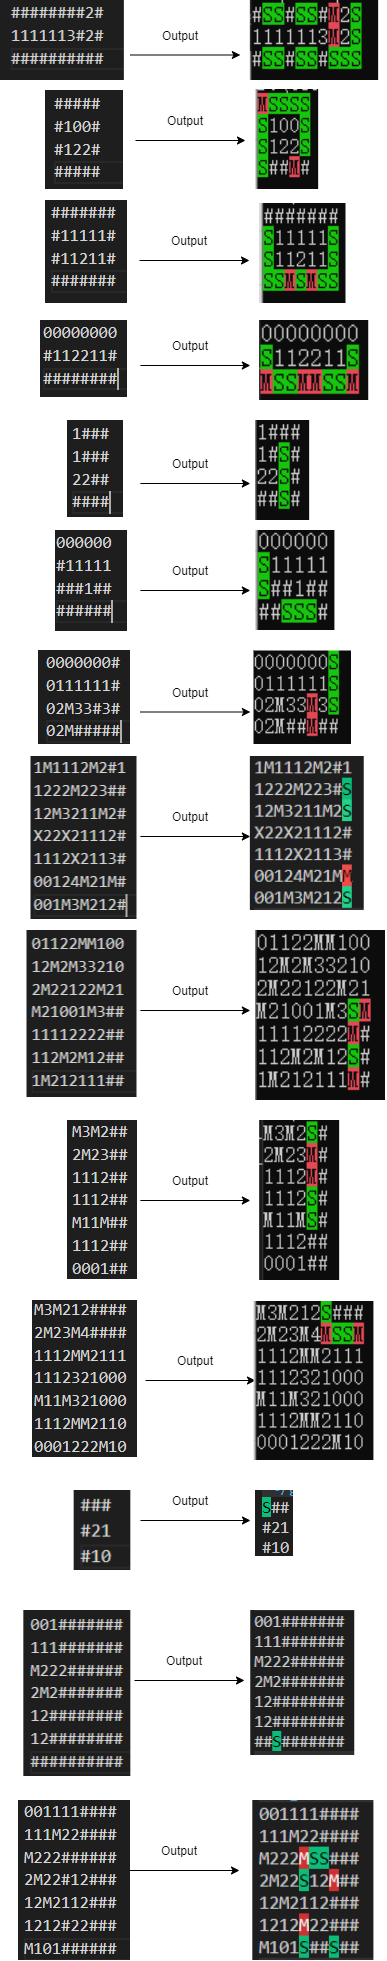
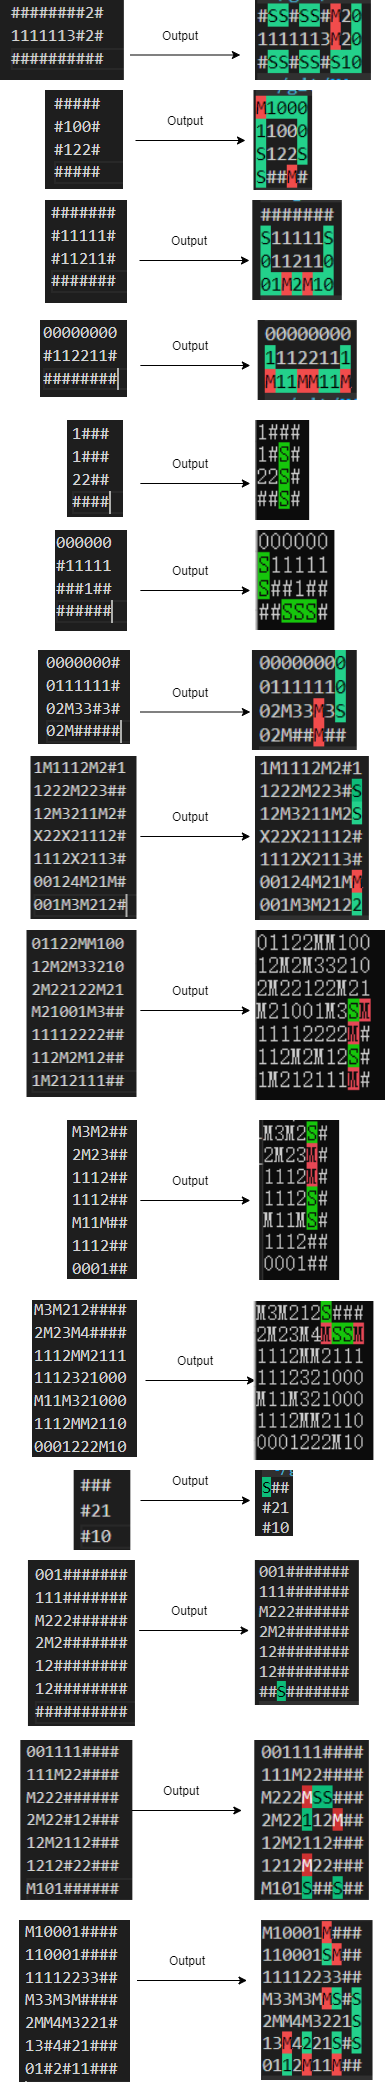
增加输出部分安全方格周围的雷数

diff --git a/hinter.cpp b/hinter.cpp
@@ -145,8 +145,8 @@ void print_no_reset(const string& s, const int textcolor, const int backgroundco
 #define S_MARKED    ('M')
 #define S_MINE      ('X')
 #define S_SAFE      ('S') // 非输入字符
-#define COUNT(cnt)  ('0' + cnt)
-#define GET_COUNT(ch) (ch - '0')
+#define CHAR_COUNT(cnt)  ('0' + cnt)
+#define INT_COUNT(ch) (ch - '0')
 #define IN_DANGER(ch) (ch == S_MARKED || ch == S_MINE) // 雷区 
 #define VALID_CH(ch) (isdigit(ch) || ch == S_UNCLICKED || IN_DANGER(ch))
 
@@ -197,6 +197,7 @@ static void UpdateStateAround(vector<string> &board, int x, int y, char old_stat
 // 得到格子四周的格子信息(雷数、未开数、安全数)
 static void GetGridInfo(vector<string> &board, int x, int y, int &dangers, int &unknowns) {
     int nx, ny;    
+    dangers = unknowns = 0;
     for (int k = 0; k < dSize; ++k) {
         nx = x + dx[k];
         ny = y + dy[k];
@@ -282,7 +283,7 @@ static bool SubtractionFormula(vector<string> &board, pii p1, pii p2, bool &fini
         // 右方的空闲格子需要提供 delta 个雷
         if (ru.size() < delta) {
             cout << "warning: invalid board input, line " << __LINE__ << endl;
-            cout << "context -> (x = " << p1.first << ", y = " << p2.second << ") , ru.size() = " << ru.size() << " , delta = " << delta << endl;
+            cout << "context -> (x = " << p1.first << ", y = " << p1.second << ") , ru.size() = " << ru.size() << " , delta = " << delta << endl;
             finish = true;
             return false;
         } else if (ru.size() == delta) {
@@ -334,14 +335,14 @@ static bool CheckIfGridAroundIsValid(vector<string> &board, int x, int y, vector
         if (!ValidMove(nx, ny) || !isdigit(board[nx][ny])) {
             continue;
         }
-        if (!IsValidGrid(GET_COUNT(board[nx][ny]), g_dangers[nx][ny], g_unknowns[nx][ny])) {
+        if (!IsValidGrid(INT_COUNT(board[nx][ny]), g_dangers[nx][ny], g_unknowns[nx][ny])) {
             return false;
         }
     }
     return true;
 }
 
-// 在节点四周寻找特定状态的节点
+// 在节点四周寻找特定状态的方格
 static vector<pii> FindGridAround(vector<string> &board, int x, int y, char state) {
     vector<pii> ans;
     int nx, ny;
@@ -354,10 +355,23 @@ static vector<pii> FindGridAround(vector<string> &board, int x, int y, char stat
     return ans;
 } 
 
+// 计算四周为某一种状态的方格的个数
+static int CountGridAround(vector<string> &board, int x, int y, char state) {
+    int ans = 0;
+    int nx, ny;
+    for (int i = 0; i < dSize; ++i) {
+        nx = x + dx[i], ny = y + dy[i];
+        if (ValidMove(nx, ny) && board[nx][ny] == state) {
+            ++ans;
+        }
+    }
+    return ans;
+}
+
 // 普通填充算法, (x, y) 必须为数字格
 static bool NaiveFill(vector<string> &board, int x, int y, unordered_set<int> &safe_list, unordered_set<int> &mine_list, bool &finish) {
     int nx, ny;
-    int cnt = GET_COUNT(board[x][y]), dangers = 0, unknowns = 0;
+    int cnt = INT_COUNT(board[x][y]), dangers = 0, unknowns = 0;
     GetGridInfo(board, x, y, dangers, unknowns);
     //cout << cnt << " " << dangers << " " << unknowns << endl;
     if (cnt == dangers) {
@@ -389,7 +403,7 @@ static bool TryFillMineAround(vector<string> &board, int x, int y, int search_de
         return true;
     }
     // 检查当前节点是否有效
-    if (!IsValidGrid(GET_COUNT(board[x][y]), g_dangers[x][y], g_unknowns[x][y])) {
+    if (!IsValidGrid(INT_COUNT(board[x][y]), g_dangers[x][y], g_unknowns[x][y])) {
        // cout << "invalid gird x = " << x << ", y = " << y << " with dangers = " << g_dangers[x][y] << " , unknowns = " << g_unknowns[x][y] << endl;
         return false; // 无效节点，直接返回填充失败
     }
@@ -521,7 +535,7 @@ static bool SearchEdgeDigitGrid(vector<string> &board, unordered_set<int> &safe_
                 unknowns = dangers = 0;
                 GetGridInfo(board, x, y, dangers, unknowns);
                 g_unknowns[x][y] = unknowns;
-                g_dangers[x][y] = GET_COUNT(board[x][y]) - dangers;
+                g_dangers[x][y] = INT_COUNT(board[x][y]) - dangers;
             }
         }
     }
@@ -573,14 +587,14 @@ static bool SearchEdgeDigitGrid(vector<string> &board, unordered_set<int> &safe_
 }
 
 /**
- * @brief 基本思路：朴素填充 + 减法公式
+ * @brief 基本思路：朴素填充 + 减法公式 + DFS 暴力搜索
  * 
  * @param safe_list 
  * @param mine_list 
  * @return true 
  * @return false 
  */
-static bool HinterStart(vector<string> &board, unordered_set<int> &safe_list, unordered_set<int> &mine_list, int search_dep_) {
+static bool HinterStart(vector<string> &board, unordered_set<int> &safe_list, unordered_set<int> &mine_list, unordered_set<int> &dfs_safe_list, unordered_set<int> &dfs_mine_list, int search_dep_) {
     // 1.普通填充
     bool finish = false;
     int nx, ny;
@@ -619,8 +633,33 @@ static bool HinterStart(vector<string> &board, unordered_set<int> &safe_list, un
 
     // 进行多轮迭代
     if (!finish) {
-    	return HinterStart(board, safe_list, mine_list, search_dep);
+    	return HinterStart(board, safe_list, mine_list, dfs_safe_list, dfs_mine_list, search_dep);
 	}
+
+    // 3. DFS 暴力搜索
+    bool res = SearchEdgeDigitGrid(board, dfs_safe_list, dfs_mine_list, search_dep_);
+    if (!res) {
+        return false; // 原先的排面就出问题
+    }
+
+    // 尝试对所有标记为 S 的安全格进行四周雷个数的统计
+    for (int x = 0; x < rows; ++x) {
+        for (int y = 0; y < cols; ++y) {
+            if (board[x][y] == S_SAFE) {
+                int unknowns, dangers;
+                GetGridInfo(board, x, y, dangers, unknowns);
+                if (unknowns == 0) {
+                    board[x][y] = CHAR_COUNT(dangers); // 为安全方格直接标记雷个数
+                    finish = false;
+                }
+            }
+        }
+    }
+    
+    // 再进行多次迭代，不省略前一次进行迭代是因为想尽可能减少使用 DFS 暴力搜索
+    if (!finish) {
+    	return HinterStart(board, safe_list, mine_list, dfs_safe_list, dfs_mine_list, search_dep);
+    }
     return true;
 }
 
@@ -667,15 +706,9 @@ int main() {
     unordered_set<int> safe_list, mine_list, dfs_safe_list, dfs_mine_list;
     bool f;
     // 先利用基本规则填一下
-    f = HinterStart(board, safe_list, mine_list, search_dep);
+    f = HinterStart(board, safe_list, mine_list, dfs_safe_list, dfs_mine_list, search_dep);
     if (!f) {
-    	cout << "Hinter Fails! err = 1" << endl;
-    	return 0;
-    }
-    // 利用 dfs 暴力搜索
-    f = SearchEdgeDigitGrid(board, dfs_safe_list, dfs_mine_list, search_dep);
-    if (!f) {
-    	cout << "Hinter Fails! err = 2" << endl;
+    	cout << "Hinter Fails!" << endl;
     	return 0;
     }
     OutputResult(board, safe_list, mine_list, dfs_safe_list, dfs_mine_list);

diff --git a/README.md b/README.md
@@ -26,7 +26,8 @@ you can config the dfs search depth by modifying the variable "search_dep" in hi
 
 ## Output
 A board will output which tell you which grids are safe or not for sure.
-- 'S' with green blackground: represents a safe grid so you can click it later.
+- 'S' with green blackground: represents a safe grid, but the program doesn't know how many mines are around it. You can click it to find out later.
+- '[0 - 8]' with green blackground: represents a safe grid and the program has already calculated how many mines are around the grid.
 - 'M' with red blackground: represents a mine grid so you can mark it down later.
 
 If nothing changes, the program fails to work because it isn't smart enough or more information should be provided.
